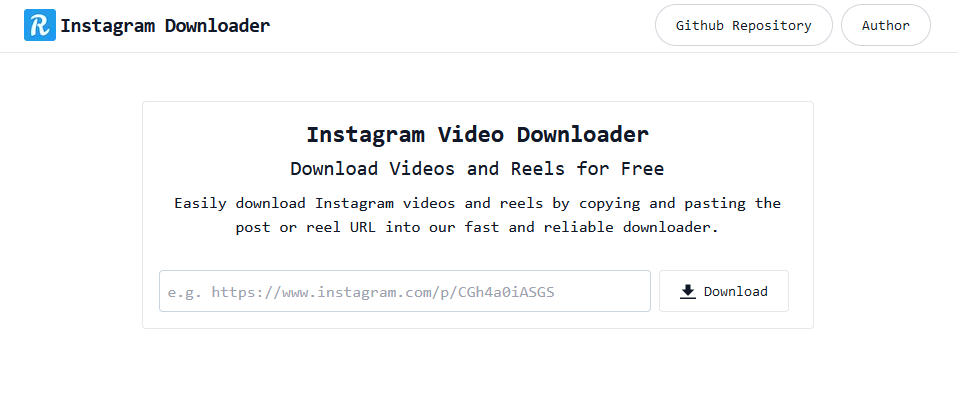
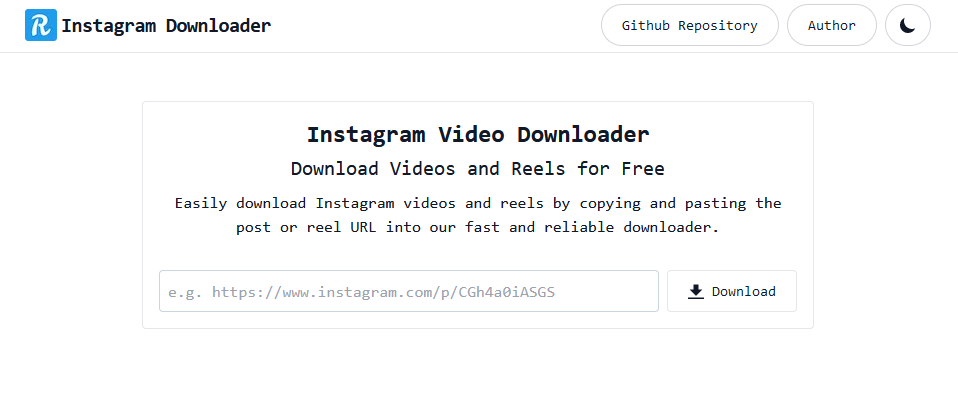
Update Added css animations Added screenshots with theme button

diff --git a/app/globals.css b/app/globals.css
@@ -3,5 +3,69 @@
 @tailwind utilities;
 
 * {
-  @apply transition-colors duration-500 ease-linear;
+  @apply transition-colors duration-200 ease-in;
+}
+
+@keyframes animate-up {
+  0% {
+    opacity: 0;
+    transform: translate(0, 80px);
+  }
+  80% {
+    opacity: 0.5;
+  }
+  100% {
+    opacity: 1;
+    transform: translate(0, 0);
+  }
+}
+
+@keyframes animate-drop {
+  0% {
+    opacity: 0;
+    transform: translate(0, -20px);
+  }
+  100% {
+    opacity: 1;
+    transform: translate(0, 0);
+  }
+}
+
+@keyframes animate-roll {
+  0% {
+    opacity: 0;
+    transform: scale(0, 0) rotate(360deg);
+  }
+  100% {
+    opacity: 1;
+    transform: scale(1, 1) rotate(0deg);
+  }
+}
+
+@keyframes animate-slide-left {
+  0% {
+    opacity: 0;
+    transform: translate(50px, 0) scale(0.5, 0.5);
+  }
+  80% {
+    opacity: 0.5;
+  }
+  100% {
+    opacity: 1;
+    transform: translate(0, 0) scale(1, 1);
+  }
+}
+
+@keyframes animate-slide-right {
+  0% {
+    opacity: 0;
+    transform: translate(-50px, 0) scale(0.5, 0.5);
+  }
+  80% {
+    opacity: 0.5;
+  }
+  100% {
+    opacity: 1;
+    transform: translate(0, 0) scale(1, 1);
+  }
 }

diff --git a/app/page.tsx b/app/page.tsx
@@ -17,17 +17,19 @@ export default function Home() {
             target="_blank"
             content="Github Repository"
             href="https://github.com/riad-azz/instagram-videos-downloader"
+            animation="motion-safe:animate-[animate-slide-right_1s_ease-in-out_1]"
           />
           <NavLink
             target="_blank"
             content="Author"
             href="https://github.com/riad-azz/"
+            animation="motion-safe:animate-[animate-slide-right_1s_ease-in-out_1]"
           />
           <ThemeButton></ThemeButton>
         </ul>
       </header>
-      <main className="w-full md:max-w-2xl mx-auto p-4 md:border rounded">
-        <header className="mb-8">
+      <main className="container w-full md:max-w-2xl mx-auto p-4 border rounded">
+        <header className="mb-8 motion-safe:animate-[animate-drop_1.5s_ease-in-out_1]">
           <h1 className="text-2xl font-bold text-center mb-1">
             Instagram Video Downloader
           </h1>

diff --git a/app/components/ThemeButton.tsx b/app/components/ThemeButton.tsx
@@ -28,7 +28,7 @@ const ThemeButton = () => {
   return (
     <button
       onClick={() => toggleTheme()}
-      className="text-gray-900 bg-white border border-gray-300 focus:outline-none hover:bg-gray-100 font-medium rounded-full text-sm px-3 py-2 dark:bg-gray-800 dark:text-white dark:border-gray-600 dark:hover:bg-gray-700 dark:hover:border-gray-600"
+      className="text-gray-900 bg-white border border-gray-300 focus:outline-none hover:bg-gray-100 font-medium rounded-full text-sm px-3 py-2 dark:bg-gray-800 dark:text-white dark:border-gray-600 dark:hover:bg-gray-700 dark:hover:border-gray-600 motion-safe:animate-[animate-slide-left_1.3s_ease-in-out_1]"
     >
       <span className={theme ? "hidden" : "block"}>
         <LoadingSpinner size={20} />

diff --git a/app/components/InstagramForm.tsx b/app/components/InstagramForm.tsx
@@ -87,7 +87,7 @@ const InstagramForm = () => {
     <>
       {errorMsg && <div className="text-red-500 mb-1">{errorMsg}</div>}
       <form
-        className="flex flex-col items-center gap-4 md:flex-row md:gap-2 "
+        className="flex flex-col items-center gap-4 md:flex-row md:gap-2 motion-safe:animate-[animate-up_1.5s_ease-in-out_1]"
         onSubmit={handleSubmit}
       >
         <input

diff --git a/app/components/NavLink.tsx b/app/components/NavLink.tsx
@@ -4,13 +4,15 @@ const NavLink = ({
   content,
   href,
   target = "",
+  animation = "",
 }: {
   content: string;
   href: string;
   target?: string;
+  animation?: string;
 }) => {
   return (
-    <li>
+    <li className={animation}>
       <Link
         href={href}
         target={target}
